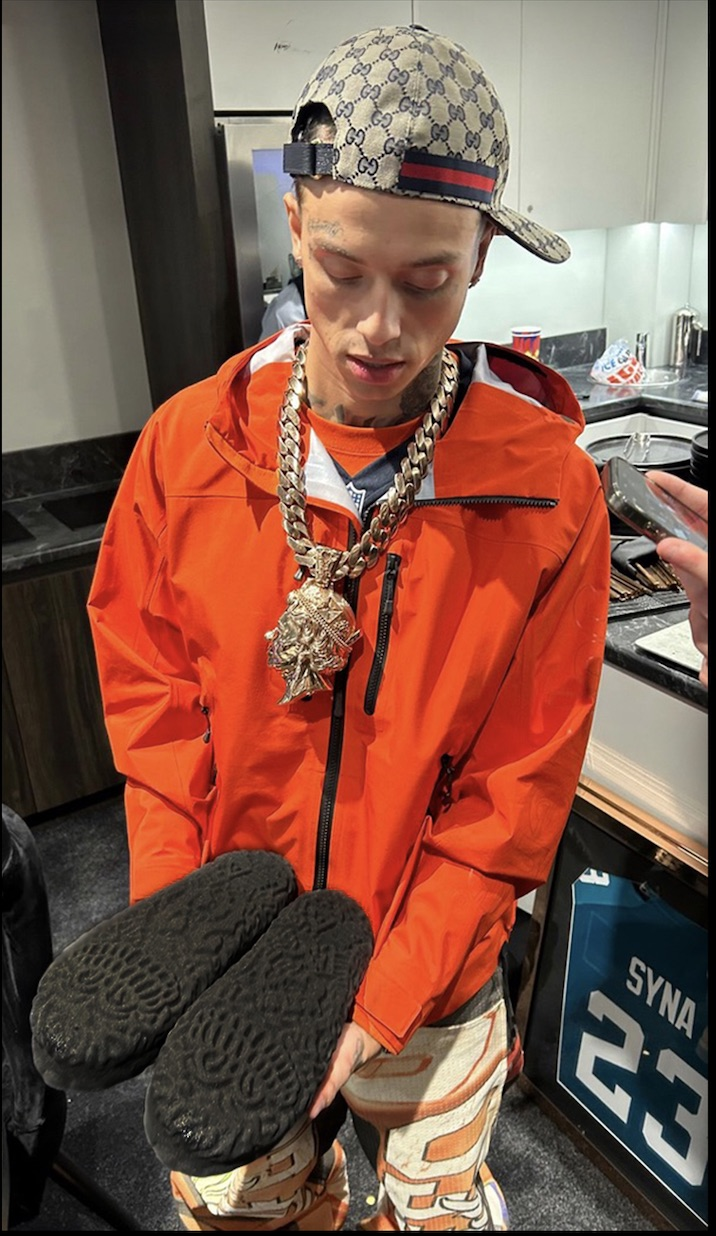
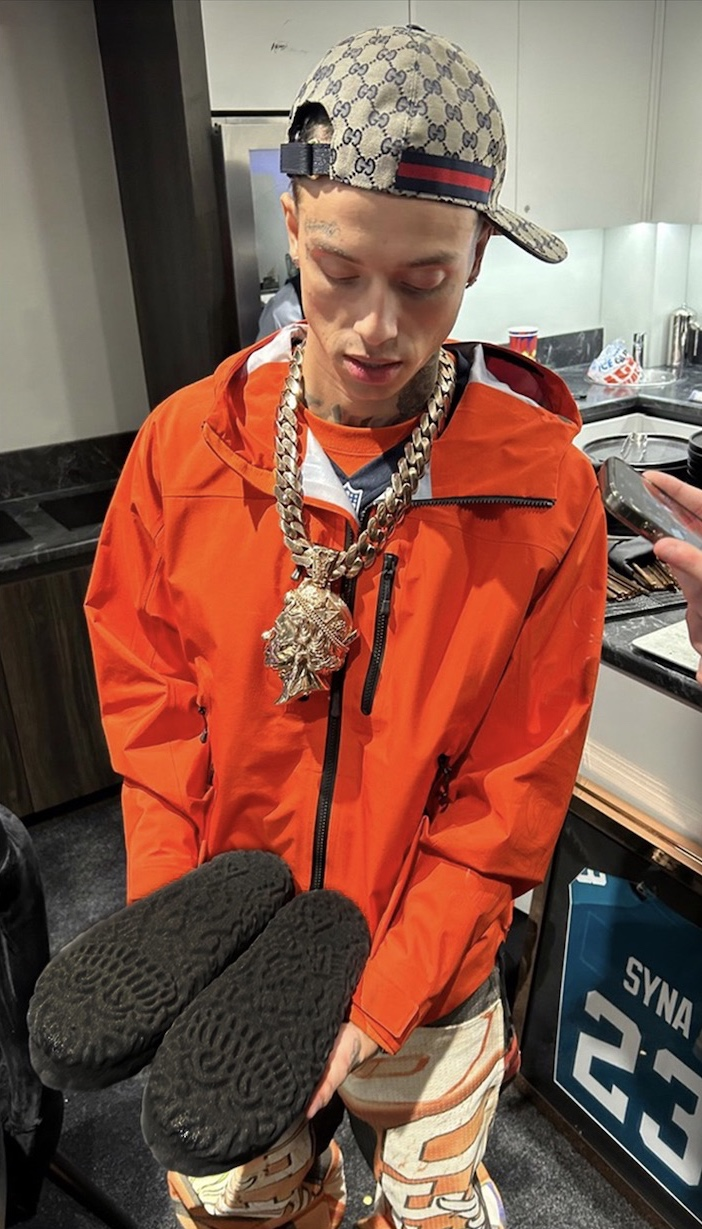
Shorter dashes, align About details with portrait, compact Experience list
Adds Orthoson and Tokyo gallery captions and trims the black edge off
the Central Cee photo.

diff --git a/index.html b/index.html
@@ -3,8 +3,8 @@
 <head>
     <meta charset="UTF-8">
     <meta name="viewport" content="width=device-width, initial-scale=1.0">
-    <title>Archie Midgley — Design Engineer</title>
-    <link rel="stylesheet" href="css/style.css?v=3">
+    <title>Archie Midgley - Design Engineer</title>
+    <link rel="stylesheet" href="css/style.css?v=4">
     <link rel="preconnect" href="https://fonts.googleapis.com">
     <link rel="preconnect" href="https://fonts.gstatic.com" crossorigin>
     <link href="https://fonts.googleapis.com/css2?family=Bebas+Neue&family=Inter:wght@300;400;500;600;700&family=Space+Grotesk:wght@400;500;600;700&display=swap" rel="stylesheet">
@@ -89,9 +89,9 @@
                     <div class="about__content">
                         <h2 class="about__headline">Design Engineer<br>creating at the intersection of<br>form &amp; function.</h2>
                         <div class="about__bio">
-                            <p>I'm Archie Midgley — a motivated engineer, pursuing a Masters degree in Design Engineering at <span style="color: var(--color-text); font-weight: 500;">Imperial College London</span>, whilst serving as COO at a footwear startup — Shape Shoes.</p>
+                            <p>I'm Archie Midgley - a motivated engineer, pursuing a Masters degree in Design Engineering at <span style="color: var(--color-text); font-weight: 500;">Imperial College London</span>, whilst serving as COO at a footwear startup - Shape Shoes.</p>
                             <p>Currently in my final year of study, I am driven to create products where form, function, and manufacturing logic work as one cohesive system.</p>
-                            <p>My work spans product design, industrial design, and medical engineering — always with a focus on simplicity and purpose.</p>
+                            <p>My work spans product design, industrial design, and medical engineering - always with a focus on simplicity and purpose.</p>
                         </div>
                         <div class="about__details">
                             <div class="about__detail">
@@ -131,7 +131,7 @@
                         </div>
                         <div class="experience__content-col">
                             <div class="experience__meta">
-                                <span class="experience__date">Sep 2023 — Present</span>
+                                <span class="experience__date">Sep 2023 - Present</span>
                                 <span class="experience__role">COO &amp; Design Engineer</span>
                             </div>
                             <h3 class="experience__company">Shape Shoes</h3>
@@ -154,7 +154,7 @@
                         </div>
                         <div class="experience__content-col">
                             <div class="experience__meta">
-                                <span class="experience__date">Sep 2026 — Oct 2026</span>
+                                <span class="experience__date">Sep 2026 - Oct 2026</span>
                                 <span class="experience__role">Soft Robotics Research Intern</span>
                             </div>
                             <h3 class="experience__company">Institute of Science Tokyo</h3>
@@ -177,7 +177,7 @@
                         </div>
                         <div class="experience__content-col">
                             <div class="experience__meta">
-                                <span class="experience__date">Mar 2026 — Sep 2026</span>
+                                <span class="experience__date">Mar 2026 - Sep 2026</span>
                                 <span class="experience__role">Design Engineer</span>
                             </div>
                             <h3 class="experience__company">Orthoson</h3>
@@ -199,7 +199,7 @@
                         </div>
                         <div class="experience__content-col">
                             <div class="experience__meta">
-                                <span class="experience__date">Jul 2023 — Jan 2024</span>
+                                <span class="experience__date">Jul 2023 - Jan 2024</span>
                                 <span class="experience__role">Web Designer &amp; Business Strategist</span>
                             </div>
                             <h3 class="experience__company">Onlock Learning</h3>
@@ -222,11 +222,11 @@
                         </div>
                         <div class="experience__content-col">
                             <div class="experience__meta">
-                                <span class="experience__date">Jul 2023 — Aug 2023</span>
+                                <span class="experience__date">Jul 2023 - Aug 2023</span>
                                 <span class="experience__role">Graphic Design Intern</span>
                             </div>
                             <h3 class="experience__company">BBC Newsnight</h3>
-                            <p class="experience__description">Designing graphic screens for Newsnight studio; exploring layout, composition, and motion — pushing designs through to moving imagery aired live on BBC Newsnight.</p>
+                            <p class="experience__description">Designing graphic screens for Newsnight studio; exploring layout, composition, and motion - pushing designs through to moving imagery aired live on BBC Newsnight.</p>
                             <div class="experience__tags">
                                 <span class="tag">Graphic Design</span>
                                 <span class="tag">Adobe Photoshop</span>
@@ -244,7 +244,7 @@
                         </div>
                         <div class="experience__content-col">
                             <div class="experience__meta">
-                                <span class="experience__date">Jun 2022 — Jul 2022</span>
+                                <span class="experience__date">Jun 2022 - Jul 2022</span>
                                 <span class="experience__role">Design Intern</span>
                             </div>
                             <h3 class="experience__company">Brinkworth Design</h3>
@@ -419,7 +419,7 @@
                 </div>
                 <div class="contact__centered">
                     <h2 class="contact__headline">Let's work<br>together.</h2>
-                    <p class="contact__text">I'm always open to new opportunities — whether that's an internship, collaboration, or just a conversation. Feel free to get in touch and say hello!</p>
+                    <p class="contact__text">I'm always open to new opportunities - whether that's an internship, collaboration, or just a conversation. Feel free to get in touch and say hello!</p>
                     <div class="contact__links">
                         <a href="mailto:midgleyarchie@gmail.com" class="contact__link">
                             <span class="contact__link-label">Email</span>

diff --git a/js/experience.js b/js/experience.js
@@ -10,7 +10,7 @@
             id: 1,
             company: 'Shape Shoes',
             category: 'Footwear',
-            period: '2023 — Present',
+            period: '2023 - Present',
             role: 'COO & Design Engineer',
             location: 'London',
             overview: 'A London-based, 3D-printed footwear startup, designing shoes with major worldwide collaborations to tell artist stories through physical design. Bringing together expertise in prototyping, manufacture, and computational design to take a concept from blank canvas to complete product; highlighting the advantage of additive manufacturing for prototyping. The process leverages TPU 3D printing to produce these rapid design iterations within days. After design finalisation, we organised a seamless transition to mass manufacture, with injection moulding being the best option for both comfort and profit margins.',
@@ -20,7 +20,7 @@
             images: [
                 'images/experience-01-detail-02.jpg',
                 'images/experience-01-detail-03.jpg',
-                'images/experience-01-detail-04.jpg',
+                'images/experience-01-detail-04.jpg?v=2',
                 'images/experience-01-detail-05.jpg?v=2',
                 'images/experience-01-detail-06.jpg'
             ],
@@ -32,7 +32,7 @@
             id: 3,
             company: 'Institute of Science Tokyo',
             category: 'Soft Robotics',
-            period: 'Sep 2026 — Oct 2026',
+            period: 'Sep 2026 - Oct 2026',
             role: 'Soft Robotics Research Intern',
             location: 'Tokyo',
             overview: 'A month at the Yoshida Research Group within the Institute of Science Tokyo. Tasked with building a wearable device driven by thin McKibben artificial muscles, I chose to tackle the actuation of the index and middle finger.',
@@ -46,13 +46,13 @@
                 'images/experience-06-detail-4.jpg',
                 'images/experience-06-detail-5.jpg'
             ],
-            captions: ['', '', '', '', '']
+            captions: ['Rear View of System', 'Air Control Circuit Board', 'Side View of System', 'Artificial Muscle Stopper Arm Strap', 'Remote Finger Control']
         },
         {
             id: 2,
             company: 'Orthoson',
             category: 'MedTech',
-            period: 'Mar 2026 — Sep 2026',
+            period: 'Mar 2026 - Sep 2026',
             role: 'Medical & Mechanical Engineer',
             location: 'Oxford',
             overview: 'An Oxford University MedTech spinout, manufacturing a bio-structural gel to restore disc mechano-biology to treat the causes of degeneration (causing lower-back pain). This involves a low-viscosity injectable which follows the fissures of degeneration and gels as it enters the Nucleus Pulposus - mimicking the body’s own tissue. The procedure is micro-invasive and is completed in <30minutes, via the use of a handheld injection system which features a pressure sensor to monitor the surgery.',
@@ -66,7 +66,7 @@
                 'images/experience-02-detail-4.jpg',
                 'images/experience-02-detail-5.jpg'
             ],
-            captions: ['', '', '', '', '']
+            captions: ['IS3 Technical Drawing', 'Instron Use', 'Final IS3 Product', 'Custom PCBs', 'Mass-production Alignment Jigs']
         }
     ];
 
@@ -74,7 +74,7 @@
     var expId = parseInt(params.get('id'), 10) || 1;
     var exp = experiences.find(function (e) { return e.id === expId; }) || experiences[0];
 
-    document.title = exp.company + ' — Archie Midgley';
+    document.title = exp.company + ' - Archie Midgley';
 
     var el = function (id) { return document.getElementById(id); };
 

diff --git a/css/style.css b/css/style.css
@@ -509,10 +509,10 @@ body:not(.hero-active) .progress {
 /* --- Clickable Experience Items --- */
 .experience__item--link {
     display: grid;
-    grid-template-columns: 0.8fr 1.2fr;
-    gap: var(--space-xl);
+    grid-template-columns: 300px 1fr;
+    gap: var(--space-lg);
     align-items: start;
-    padding-bottom: var(--space-2xl);
+    padding-bottom: var(--space-lg);
     border-bottom: 1px solid var(--color-border-light);
     text-decoration: none;
     color: inherit;
@@ -533,7 +533,7 @@ body:not(.hero-active) .progress {
     display: grid;
     grid-template-columns: 1fr 1.4fr;
     gap: var(--space-2xl);
-    align-items: start;
+    align-items: stretch;
 }
 
 .about__portrait {
@@ -589,6 +589,8 @@ body:not(.hero-active) .progress {
 
 .about__content {
     padding-top: var(--space-sm);
+    display: flex;
+    flex-direction: column;
 }
 
 .about__headline {
@@ -623,8 +625,9 @@ body:not(.hero-active) .progress {
 .about__details {
     display: flex;
     flex-direction: column;
-    gap: var(--space-sm);
-    padding-top: var(--space-lg);
+    gap: 0;
+    margin-top: auto;           /* sit on the bottom edge of the portrait */
+    padding-top: var(--space-sm);
     border-top: 1px solid var(--color-border);
 }
 
@@ -632,7 +635,11 @@ body:not(.hero-active) .progress {
     display: flex;
     justify-content: space-between;
     align-items: center;
-    padding: var(--space-xs) 0;
+    padding: 0.4rem 0;
+}
+
+.about__detail:last-child {
+    padding-bottom: 0;
 }
 
 .about__label {
@@ -653,15 +660,15 @@ body:not(.hero-active) .progress {
 .experience__list {
     display: flex;
     flex-direction: column;
-    gap: var(--space-2xl);
+    gap: var(--space-lg);
 }
 
 .experience__item {
     display: grid;
-    grid-template-columns: 0.8fr 1.2fr;
-    gap: var(--space-xl);
+    grid-template-columns: 300px 1fr;
+    gap: var(--space-lg);
     align-items: start;
-    padding-bottom: var(--space-2xl);
+    padding-bottom: var(--space-lg);
     border-bottom: 1px solid var(--color-border-light);
     opacity: 0;
     transform: translateY(30px);
@@ -723,7 +730,7 @@ body:not(.hero-active) .progress {
 }
 
 .experience__role::before {
-    content: '—';
+    content: '-';
     margin-right: var(--space-xs);
 }
 
@@ -1413,8 +1420,8 @@ body.dark .theme-switcher__btn.active {
 
     .experience__item,
     .experience__item--link {
-        grid-template-columns: 1fr 1.5fr;
-        gap: var(--space-lg);
+        grid-template-columns: 240px 1fr;
+        gap: var(--space-md);
     }
 
     .project-detail__two-col {
@@ -1466,7 +1473,7 @@ body.dark .theme-switcher__btn.active {
     }
 
     .experience__image-wrapper {
-        max-width: 400px;
+        aspect-ratio: 16 / 9;
     }
 
     .projects__grid {

diff --git a/experience.html b/experience.html
@@ -3,8 +3,8 @@
 <head>
     <meta charset="UTF-8">
     <meta name="viewport" content="width=device-width, initial-scale=1.0">
-    <title>Experience — Archie Midgley</title>
-    <link rel="stylesheet" href="css/style.css?v=3">
+    <title>Experience - Archie Midgley</title>
+    <link rel="stylesheet" href="css/style.css?v=4">
     <link rel="preconnect" href="https://fonts.googleapis.com">
     <link rel="preconnect" href="https://fonts.gstatic.com" crossorigin>
     <link href="https://fonts.googleapis.com/css2?family=Bebas+Neue&family=Inter:wght@300;400;500;600;700&family=Space+Grotesk:wght@400;500;600;700&display=swap" rel="stylesheet">
@@ -31,7 +31,7 @@
                 <div class="project-detail__meta">
                     <div class="project-detail__meta-item">
                         <span class="project-detail__meta-label">Period</span>
-                        <span class="project-detail__meta-value" id="expPeriod">2024 — Present</span>
+                        <span class="project-detail__meta-value" id="expPeriod">2024 - Present</span>
                     </div>
                     <div class="project-detail__meta-item">
                         <span class="project-detail__meta-label">Role</span>
@@ -65,7 +65,7 @@
             </div>
         </section>
 
-        <!-- Image Gallery Row 1 — two images -->
+        <!-- Image Gallery Row 1 - two images -->
         <section class="project-detail__gallery">
             <div class="project-detail__container">
                 <div class="project-detail__gallery-grid project-detail__gallery-grid--two">
@@ -109,7 +109,7 @@
             </div>
         </section>
 
-        <!-- Image Gallery Row 2 — three images in a line -->
+        <!-- Image Gallery Row 2 - three images in a line -->
         <section class="project-detail__gallery">
             <div class="project-detail__container">
                 <div class="project-detail__gallery-grid project-detail__gallery-grid--three">
@@ -157,6 +157,6 @@
     </div>
 
     <script src="js/cursor.js?v=3"></script>
-    <script src="js/experience.js?v=7"></script>
+    <script src="js/experience.js?v=8"></script>
 </body>
 </html>

diff --git a/project.html b/project.html
@@ -3,8 +3,8 @@
 <head>
     <meta charset="UTF-8">
     <meta name="viewport" content="width=device-width, initial-scale=1.0">
-    <title>Project — Archie Midgley</title>
-    <link rel="stylesheet" href="css/style.css?v=3">
+    <title>Project - Archie Midgley</title>
+    <link rel="stylesheet" href="css/style.css?v=4">
     <link rel="preconnect" href="https://fonts.googleapis.com">
     <link rel="preconnect" href="https://fonts.gstatic.com" crossorigin>
     <link href="https://fonts.googleapis.com/css2?family=Bebas+Neue&family=Inter:wght@300;400;500;600;700&family=Space+Grotesk:wght@400;500;600;700&display=swap" rel="stylesheet">
@@ -113,7 +113,7 @@
             </div>
         </section>
 
-        <!-- Image Gallery Row 2 — three images in a line -->
+        <!-- Image Gallery Row 2 - three images in a line -->
         <section class="project-detail__gallery">
             <div class="project-detail__container">
                 <div class="project-detail__gallery-grid project-detail__gallery-grid--three">
@@ -186,6 +186,6 @@
     </div>
 
     <script src="js/cursor.js?v=3"></script>
-    <script src="js/project.js?v=3"></script>
+    <script src="js/project.js?v=4"></script>
 </body>
 </html>

diff --git a/js/project.js b/js/project.js
@@ -105,7 +105,7 @@
     var projectId = parseInt(params.get('id'), 10) || 1;
     var project = projects.find(function (p) { return p.id === projectId; }) || projects[0];
 
-    document.title = project.title + ' — Archie Midgley';
+    document.title = project.title + ' - Archie Midgley';
 
     var el = function (id) { return document.getElementById(id); };
 
